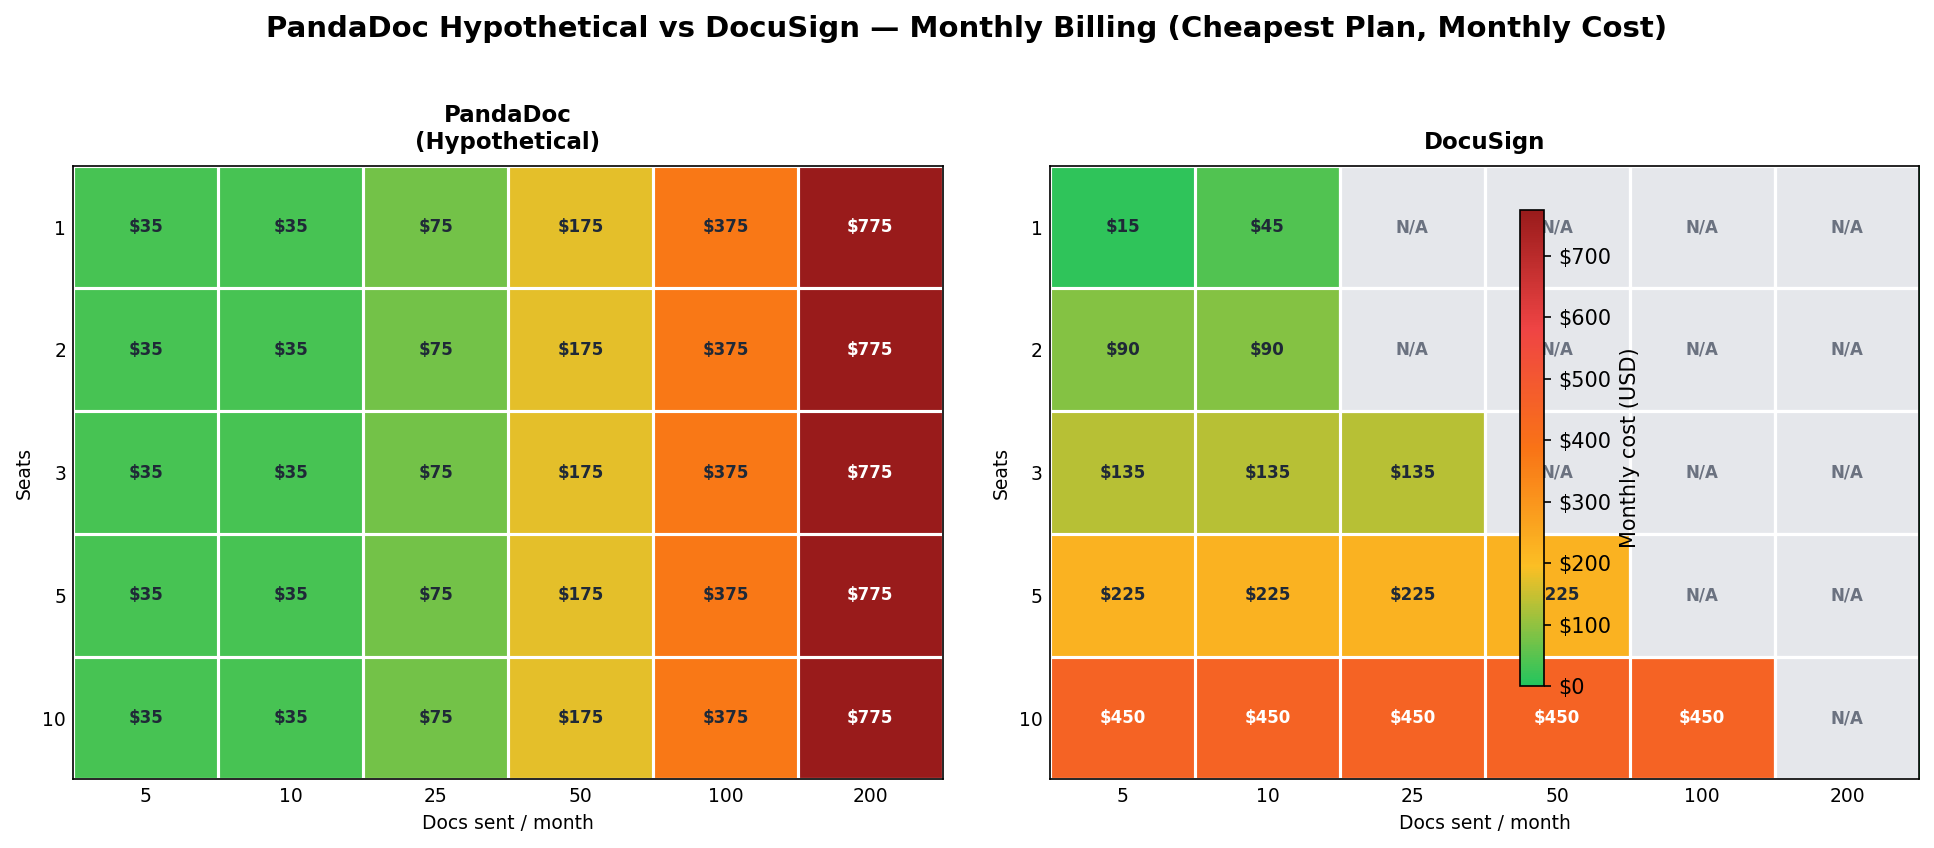
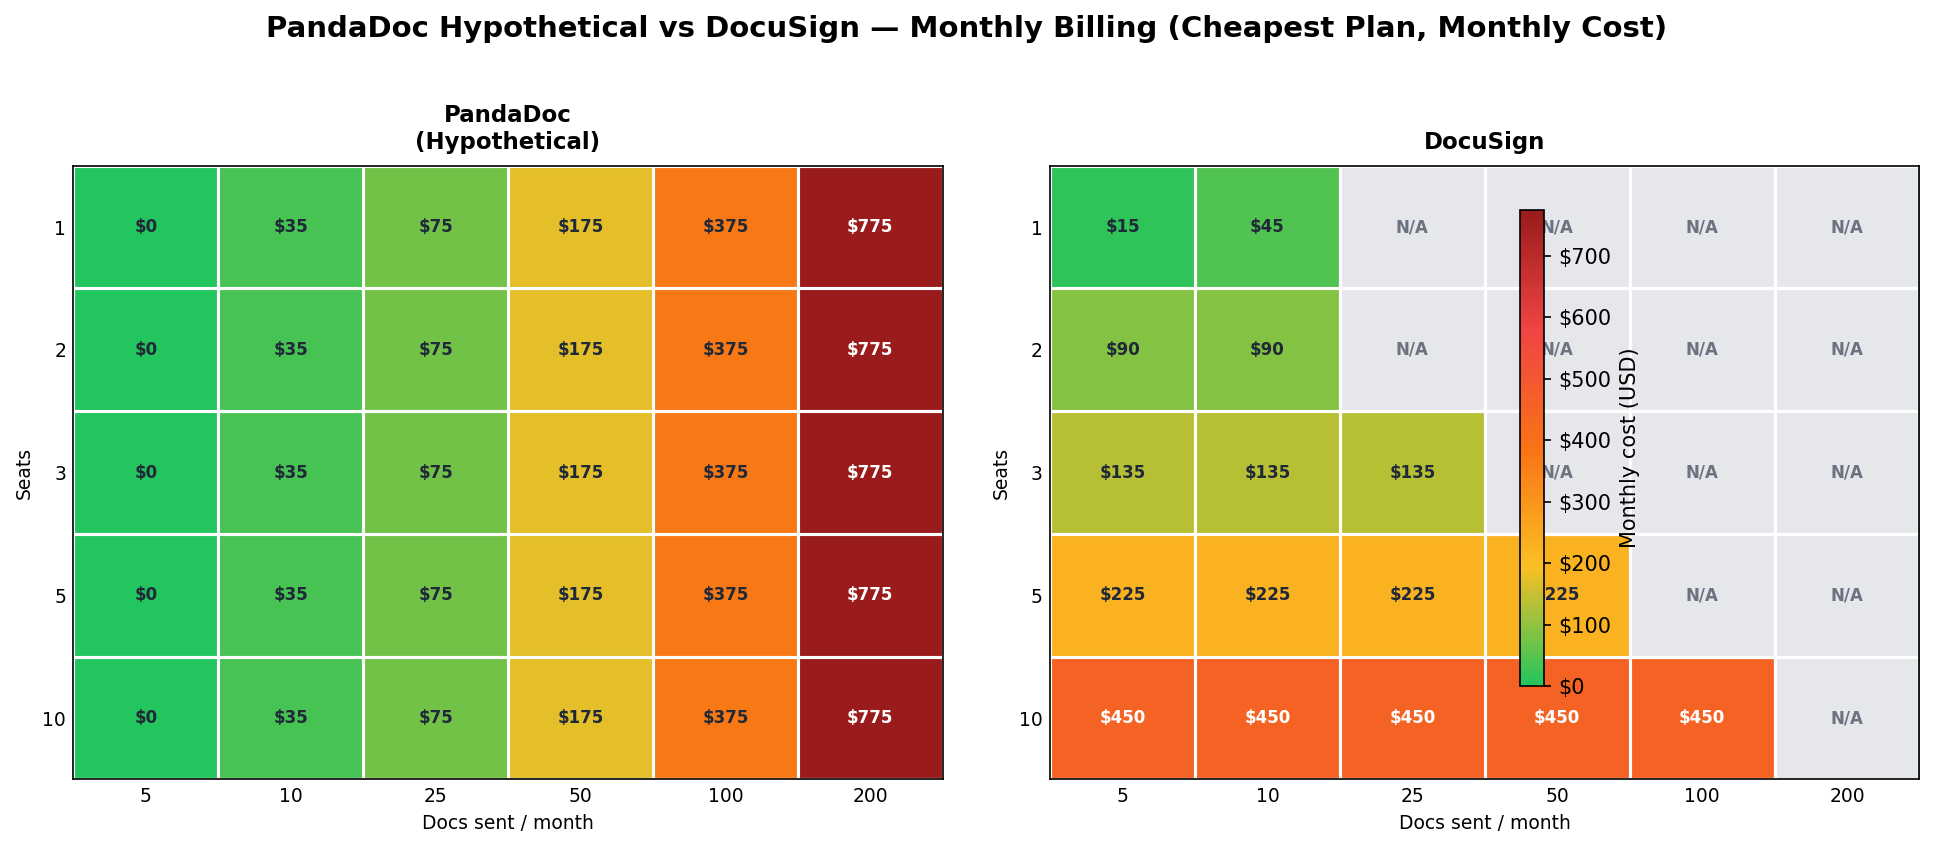
Add Free tier to PandaDoc hypothetical: 5 docs/mo or 60 docs/yr, $0
Free tier has hard cap (no overage) — must upgrade to Starter beyond 5 docs/mo.
Now the cheapest-plan comparison picks $0 at 5 docs/mo for hypothetical.

https://claude.ai/code/session_014DEMrbiRzCpwPJqmDAr6XD

Changed region(s): [[0.031, 0.184, 0.1241, 0.9198]]

diff --git a/generate_pricing_charts.py b/generate_pricing_charts.py
@@ -81,6 +81,17 @@ def pandadoc_business(seats, docs_mo, annual):
 OVERAGE_PER_DOC = 4.0
 
 
+def pandadoc_hyp_free(seats, docs_mo, annual):
+    """Hypothetical Free: 5 docs/mo or 60 docs/yr. Hard cap (no overage). Unlimited seats."""
+    if annual:
+        if docs_mo * 12 > 60:
+            return None
+    else:
+        if docs_mo > 5:
+            return None
+    return 0.0
+
+
 def pandadoc_hyp_starter(seats, docs_mo, annual):
     """Hypothetical Starter: flat $19/$35, 15 docs/mo or 180 docs/yr. $4/doc overage. Unlimited seats."""
     if annual:
@@ -154,6 +165,7 @@ COMPANIES = {
 
 HYPOTHETICAL = {
     "PandaDoc (Hypothetical)": [
+        ("Free\n∞ seats\n5/mo or 60/yr cap", pandadoc_hyp_free, True, True),
         ("Starter\n∞ seats, flat fee\n15/mo or 180/yr cap\n+$4/doc overage", pandadoc_hyp_starter, True, True),
         ("Business\n∞ seats, flat fee\n20/mo or 240/yr cap\n+$4/doc overage", pandadoc_hyp_business, True, True),
     ],
